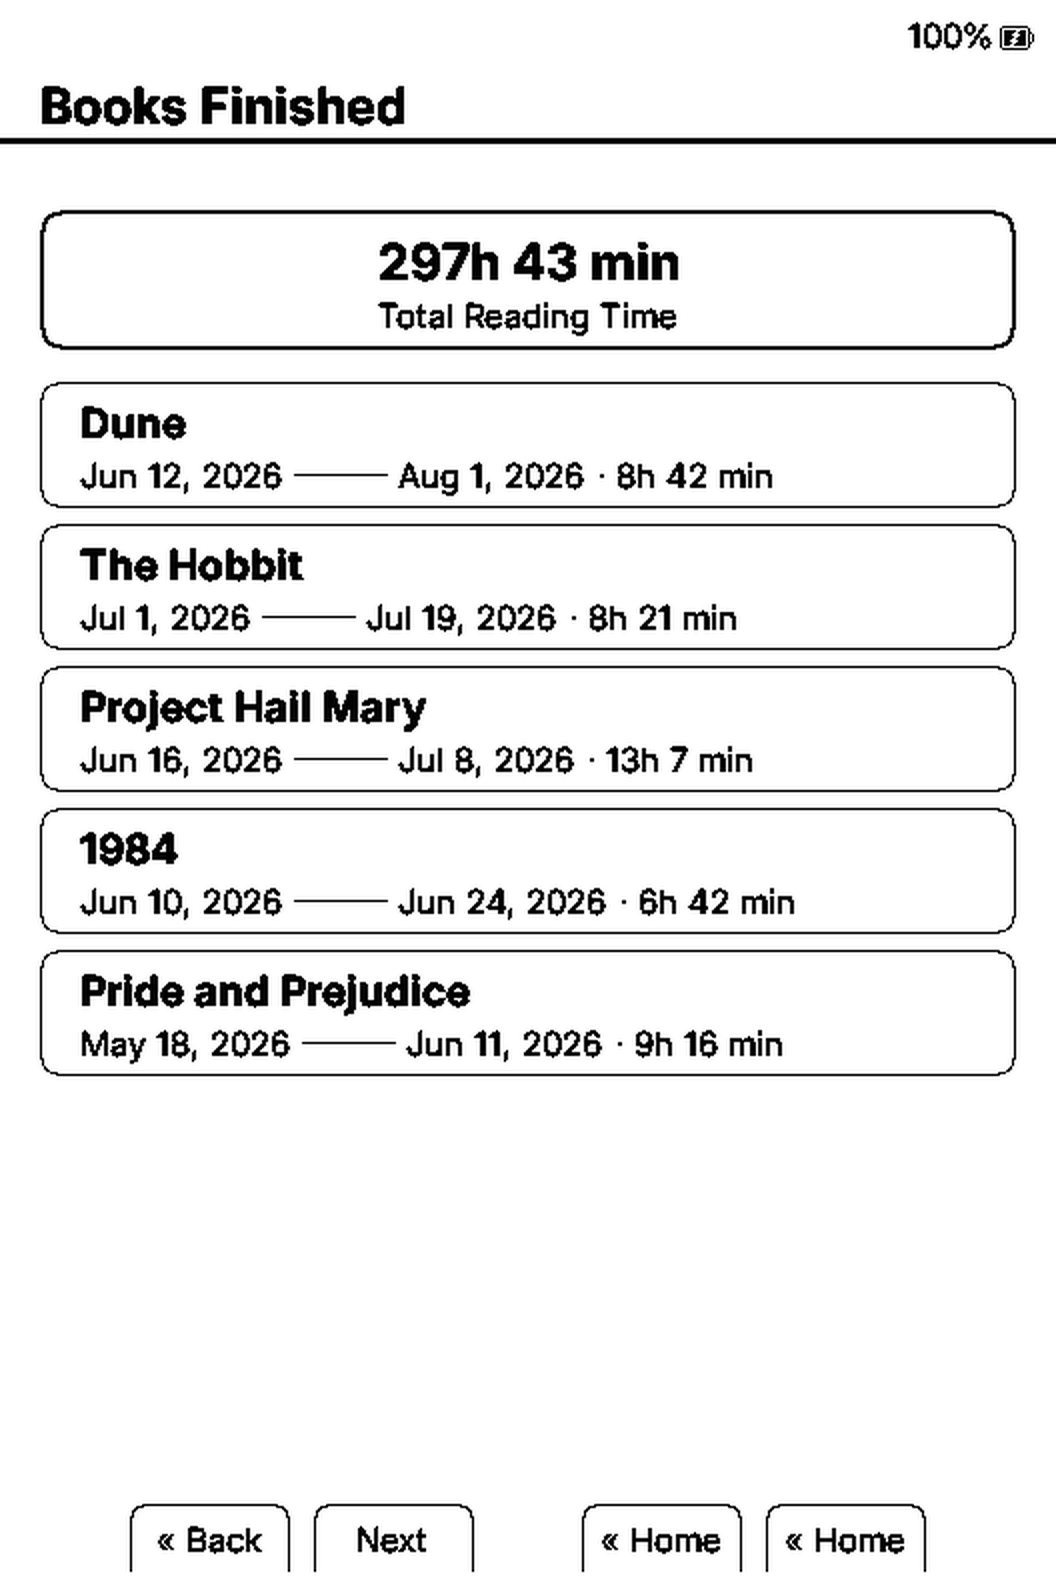
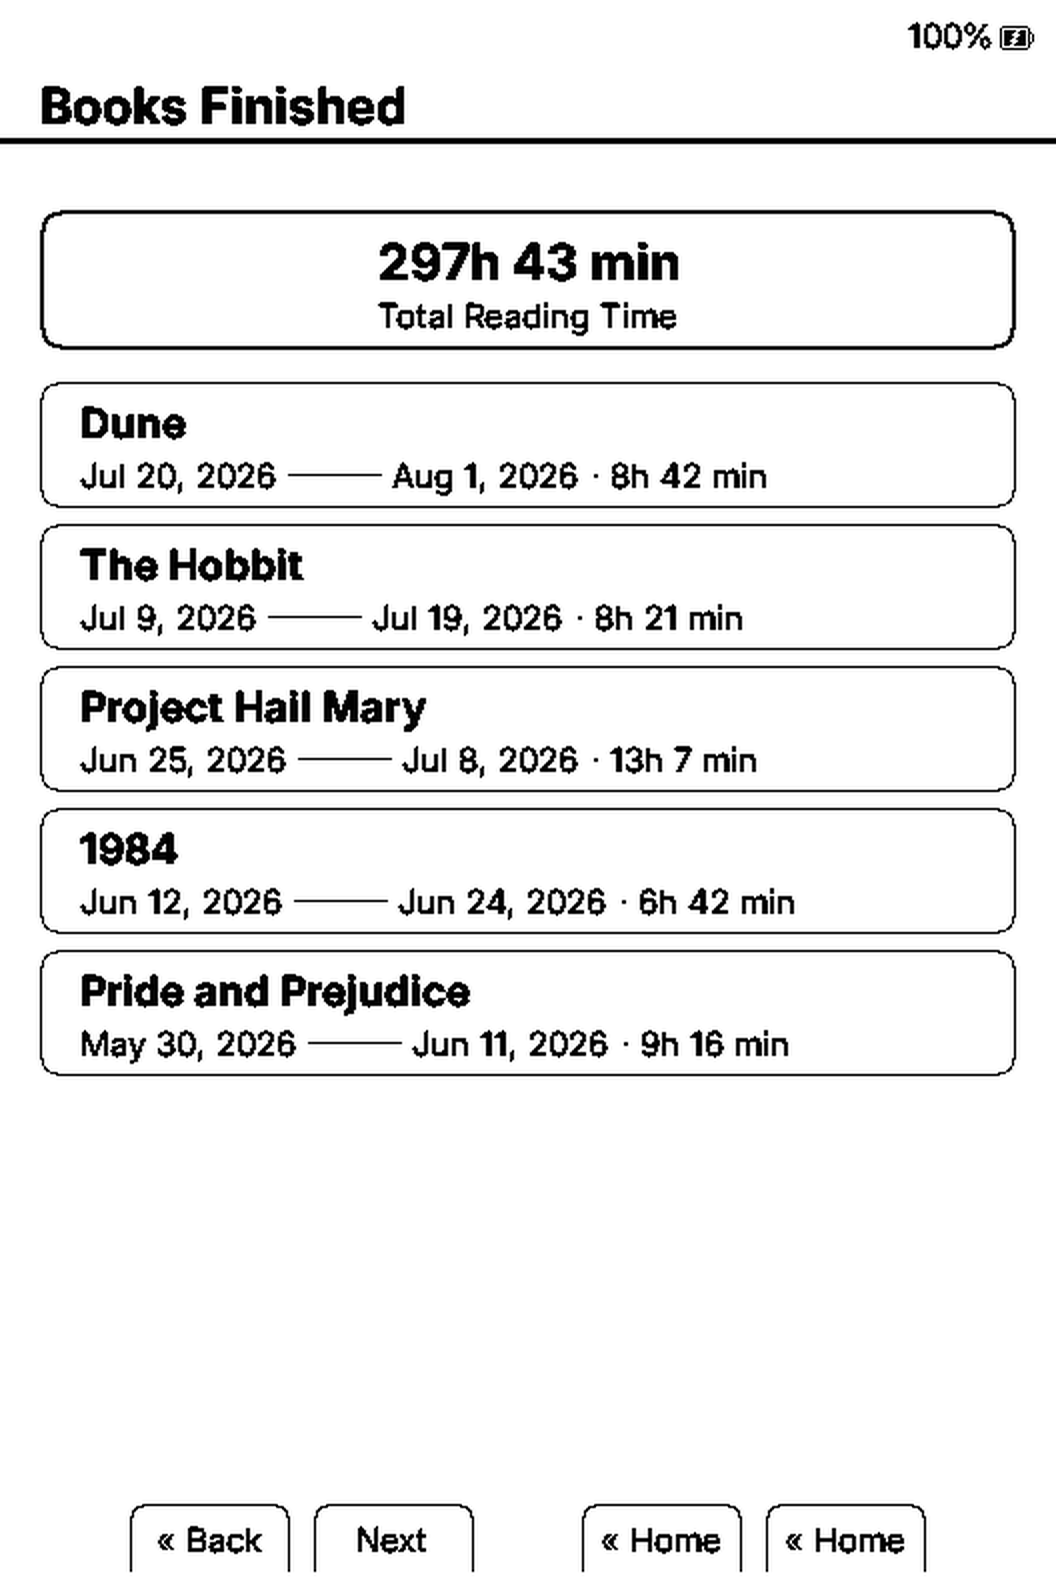
docs: clarify finished-books timeline example

diff --git a/scripts/generate_reading_stats_demo.py b/scripts/generate_reading_stats_demo.py
@@ -13,15 +13,16 @@ HISTORY_DAYS = 730
 HISTORY_BYTES = 92
 GLOBAL_STATS_SIZE = 159
 EPOCH = date(2000, 1, 1)
+# Most recently finished first; each sample starts the day after the older one ended.
 FINISHED_BOOKS = (
-    ("Dune", 8 * 3600 + 42 * 60, date(2026, 6, 12), date(2026, 8, 1)),
-    ("The Hobbit", 8 * 3600 + 21 * 60, date(2026, 7, 1), date(2026, 7, 19)),
-    ("Project Hail Mary", 13 * 3600 + 7 * 60, date(2026, 6, 16), date(2026, 7, 8)),
-    ("1984", 6 * 3600 + 42 * 60, date(2026, 6, 10), date(2026, 6, 24)),
-    ("Pride and Prejudice", 9 * 3600 + 16 * 60, date(2026, 5, 18), date(2026, 6, 11)),
-    ("The Left Hand of Darkness", 7 * 3600 + 35 * 60, date(2026, 5, 7), date(2026, 5, 29)),
-    ("The Count of Monte Cristo", 18 * 3600 + 52 * 60, date(2026, 3, 20), date(2026, 5, 12)),
-    ("The Little Prince", 2 * 3600 + 4 * 60, date(2026, 4, 29), date(2026, 4, 30)),
+    ("Dune", 8 * 3600 + 42 * 60, date(2026, 7, 20), date(2026, 8, 1)),
+    ("The Hobbit", 8 * 3600 + 21 * 60, date(2026, 7, 9), date(2026, 7, 19)),
+    ("Project Hail Mary", 13 * 3600 + 7 * 60, date(2026, 6, 25), date(2026, 7, 8)),
+    ("1984", 6 * 3600 + 42 * 60, date(2026, 6, 12), date(2026, 6, 24)),
+    ("Pride and Prejudice", 9 * 3600 + 16 * 60, date(2026, 5, 30), date(2026, 6, 11)),
+    ("The Left Hand of Darkness", 7 * 3600 + 35 * 60, date(2026, 5, 17), date(2026, 5, 29)),
+    ("The Count of Monte Cristo", 18 * 3600 + 52 * 60, date(2026, 4, 25), date(2026, 5, 16)),
+    ("The Little Prince", 2 * 3600 + 4 * 60, date(2026, 4, 22), date(2026, 4, 24)),
 )
 
 
